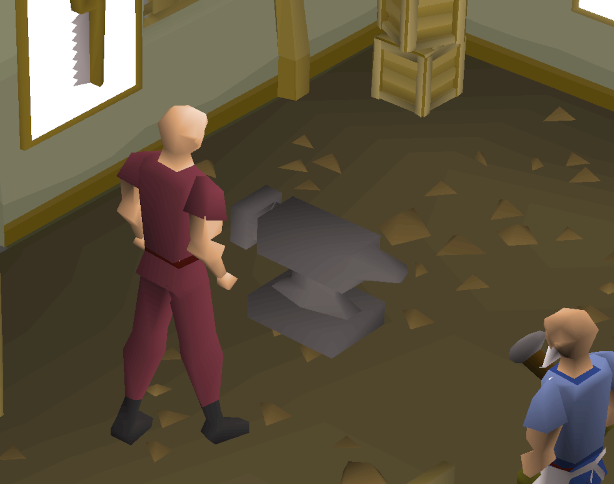
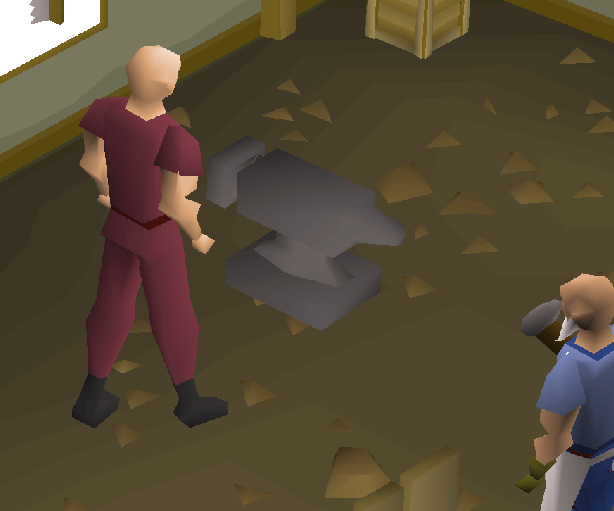
Changed varrock anvil image, used prettier

diff --git a/src/targets/anvil.js b/src/targets/anvil.js
@@ -20,9 +20,9 @@ export class Anvil extends ClickableObject {
         const cameraWidth = scene.cameras.main.width;
         const cameraHeight = scene.cameras.main.height;
         const width = 220;
-        const height = 140;
-        const x = cameraWidth / 2 - width + 60;
-        const y = cameraHeight / 2 - height + 40;
+        const height = 180;
+        const x = cameraWidth / 2 - width + 20;
+        const y = cameraHeight / 2 - height + 60;
 
         // Add invisible button for anvil
         this.sprite = new Button(scene, x, y, width, height);
@@ -71,8 +71,14 @@ export class Anvil extends ClickableObject {
         const chat = this.scene.scene.get(CONSTANTS.SCENES.CHAT);
         const item = await getItemClass(itemName, this.scene.dashboard);
 
-        const indices = item.bars.map((bar) => ({ value: inv.getInventoryIndex(bar.name), count: bar.count }));
-        const allExist = indices.every((index) => (index.value >= 0 && inv.inventory[index.value].numItems > index.count));
+        const indices = item.bars.map((bar) => ({
+            value: inv.getInventoryIndex(bar.name),
+            count: bar.count,
+        }));
+        const allExist = indices.every(
+            (index) =>
+                index.value >= 0 && inv.inventory[index.value].numItems >= index.count
+        );
 
         // All ingredients are in inventory
         if (allExist) {

diff --git a/src/targets/resources/resource.js b/src/targets/resources/resource.js
@@ -34,8 +34,8 @@ export class Resource extends Target {
         if (skillLevel < this.requiredLevels[this.skill]) {
             chat.writeText(
                 "You do not have the required " +
-                this.skill +
-                " level to perform this action."
+                    this.skill +
+                    " level to perform this action."
             );
             return false;
         }
@@ -67,10 +67,10 @@ export class Resource extends Target {
         } else {
             chat.writeText(
                 "This action requires a " +
-                toolKeyword +
-                " that you have the required " +
-                this.skill +
-                " level to use."
+                    toolKeyword +
+                    " that you have the required " +
+                    this.skill +
+                    " level to use."
             );
             return false;
         }
@@ -80,7 +80,7 @@ export class Resource extends Target {
         return calcLevel(characterData.getSkillXp(this.skill));
     }
 
-    onClick(clickValue) { }
+    onClick(clickValue) {}
 
     onCompletion() {
         characterData.addSkillXp(this.skill, this.neededClicks);

diff --git a/src/items/equipment/equipment.js b/src/items/equipment/equipment.js
@@ -84,12 +84,12 @@ export default class Equipment extends Item {
                     .get(CONSTANTS.SCENES.CHAT)
                     .writeText(
                         "You need " +
-                        aOrAn(skillText) +
-                        " " +
-                        capitalize(skillText) +
-                        " level of " +
-                        this.requiredLevels[skillText] +
-                        " to equip this item."
+                            aOrAn(skillText) +
+                            " " +
+                            capitalize(skillText) +
+                            " level of " +
+                            this.requiredLevels[skillText] +
+                            " to equip this item."
                     );
             }
         } else {

diff --git a/src/items/tools/hammer.js b/src/items/tools/hammer.js
@@ -20,13 +20,19 @@ export default class Hammer extends Tool {
             className: "",
             numRequiredItems: 0,
             xpGiven: 0,
-            requires: ""
+            requires: "",
         };
 
         switch (itemName) {
-            case "Bronze Bar": output.requires = "Anvil"; break;
-            case "Iron Bar": output.requires = "Anvil"; break;
-            case "Steel Bar": output.requires = "Anvil"; break;
+            case "Bronze Bar":
+                output.requires = "Anvil";
+                break;
+            case "Iron Bar":
+                output.requires = "Anvil";
+                break;
+            case "Steel Bar":
+                output.requires = "Anvil";
+                break;
         }
 
         return output;

diff --git a/src/targets/enemies/enemy.js b/src/targets/enemies/enemy.js
@@ -165,9 +165,9 @@ export class Enemy extends Target {
         // Get max hit
         let maxHit = Math.floor(
             1.3 +
-            effectiveDamageLevel / 10 +
-            equipmenStrength / 80 +
-            (effectiveDamageLevel * equipmenStrength) / 640
+                effectiveDamageLevel / 10 +
+                equipmenStrength / 80 +
+                (effectiveDamageLevel * equipmenStrength) / 640
         );
 
         // Check accuracy

diff --git a/src/ui/panels/skills.js b/src/ui/panels/skills.js
@@ -264,7 +264,7 @@ export class Skills {
                 // Close the window if the same skill is clicked twice
                 if (
                     this.skillInfo.header.text ==
-                    skill[0].toUpperCase() + skill.substring(1) &&
+                        skill[0].toUpperCase() + skill.substring(1) &&
                     this.skillInfo.header.visible
                 ) {
                     this.showSkillInfo(false);

diff --git a/src/items/bars/bronze-bar.js b/src/items/bars/bronze-bar.js
@@ -11,7 +11,8 @@ export default class BronzeBar extends Bar {
     cost = 8;
     xp = 6;
     ores = ["CopperOre", "TinOre"];
-    smeltingErrorMessage = "You need at least one copper and one tin ore to smelt a bronze bar.";
+    smeltingErrorMessage =
+        "You need at least one copper and one tin ore to smelt a bronze bar.";
 
     constructor(scene) {
         super();

diff --git a/src/items/tools/tool.js b/src/items/tools/tool.js
@@ -50,8 +50,7 @@ export default class Tool extends Item {
         // Invalid selection
         else if (recipe.requires && recipe.requires === "Anvil") {
             outputString = "You need an anvil to do this.";
-        }
-        else {
+        } else {
             outputString = "Not a valid crafting combination.";
         }
 

diff --git a/src/scenes/level.js b/src/scenes/level.js
@@ -239,7 +239,7 @@ export class LevelScene extends Phaser.Scene {
             useWeapon = false;
         } else if (this.levelType == CONSTANTS.LEVEL_TYPE.SMITHING) {
             imageName = "hammer-hand";
-            scale = .8;
+            scale = 0.8;
             startX = 100;
             startY = 100;
 

diff --git a/src/default-data.js b/src/default-data.js
@@ -14,7 +14,7 @@ export const defaultData = {
         { item: "BronzeAxe", count: 1 },
         { item: "BronzePickaxe", count: 1 },
         { item: "Knife", count: 1 },
-        { item: "Hammer", count: 1},
+        { item: "Hammer", count: 1 },
         { item: "Coin", count: 25 },
     ],
     equipment: {

diff --git a/.prettierrc.js b/.prettierrc.js
@@ -1,4 +1,4 @@
 module.exports = {
     tabWidth: 4,
-    printWidth: 90
+    printWidth: 90,
 };
